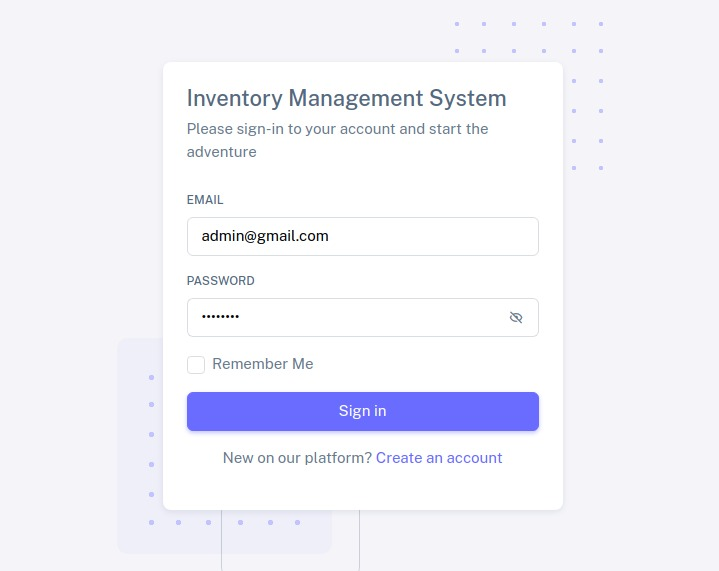
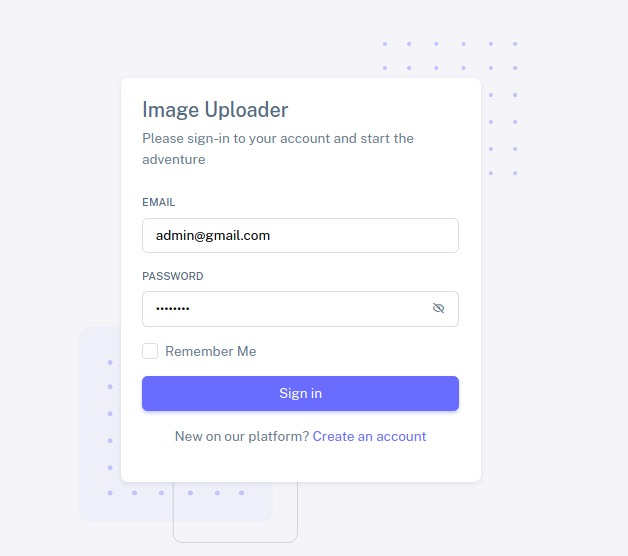
change

diff --git a/resources/views/auth/register.blade.php b/resources/views/auth/register.blade.php
@@ -21,7 +21,7 @@
                 <div class="card">
                     <div class="card-body">
 
-                        <h4 class="mb-2">Inventory Management System </h4>
+                        <h4 class="mb-2">Image Uploader</h4>
                         <p class="mb-4">Please sign-in to your account and start the adventure</p>
                         <form id="formAuthentication" class="mb-3" method="POST" action="{{ route('register') }}">@csrf
                             <div class="mb-3">

diff --git a/resources/views/auth/login.blade.php b/resources/views/auth/login.blade.php
@@ -21,7 +21,7 @@
                 <div class="card">
                     <div class="card-body">
 
-                        <h4 class="mb-2">Inventory Management System </h4>
+                        <h4 class="mb-2">Image Uploader</h4>
                         <p class="mb-4">Please sign-in to your account and start the adventure</p>
 
                         <form id="formAuthentication" class="mb-3" method="POST" action="{{ route('login') }}">@csrf
